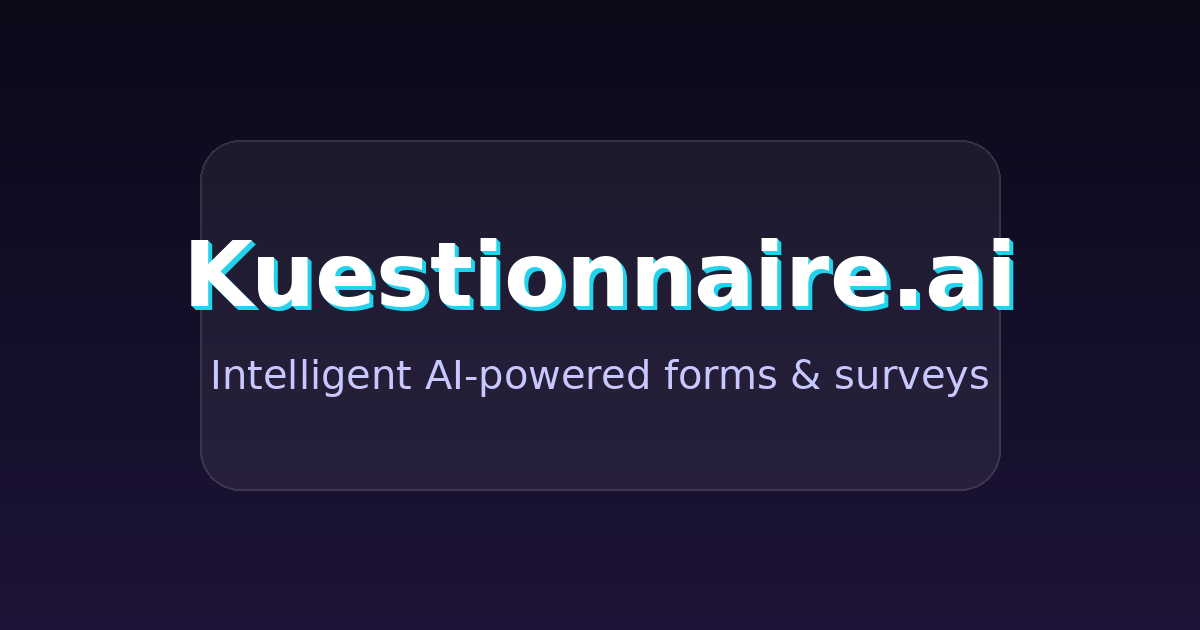
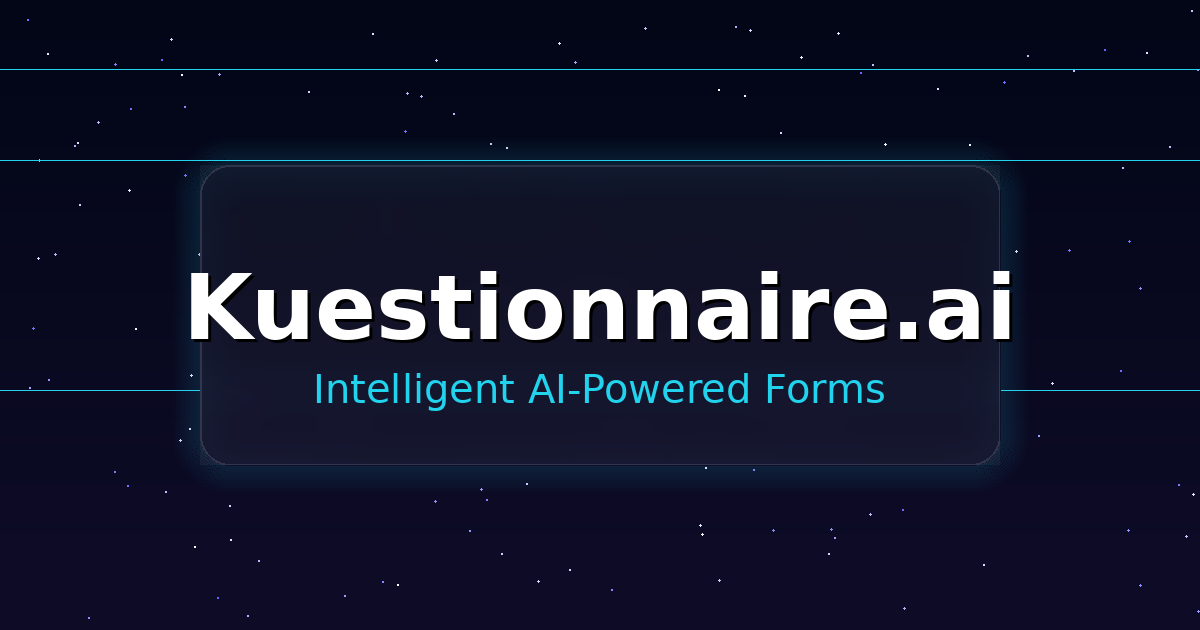
fix: resolve blank page issue and update OG image with better branding
- Fixed a critical issue where the app would load as a blank page if Supabase environment variables were missing. The app now handles missing variables gracefully and runs in local-only mode.
- Generated a new, high-quality Open Graph (OG) image with a futuristic "space/tech" theme.
- Ensured absolute URLs are used for social media meta tags (og:image and twitter:image).

diff --git a/src/lib/supabase.ts b/src/lib/supabase.ts
@@ -3,10 +3,16 @@ import { createClient } from '@supabase/supabase-js';
 const supabaseUrl = import.meta.env.VITE_SUPABASE_URL;
 const supabaseAnonKey = import.meta.env.VITE_SUPABASE_ANON_KEY;
 
+const placeholderUrl = 'https://placeholder-project.supabase.co';
+const placeholderKey = 'eyJhbGciOiJIUzI1NiIsInR5cCI6IkpXVCJ9.eyJpc3MiOiJzdXBhYmFzZSIsInJlZiI6InBsYWNlaG9sZGVyIiwicm9sZSI6ImFub24iLCJpYXQiOjE2MTY0OTY0MDAsImV4cCI6MTkzMjA3MjQwMH0.placeholder';
+
 if (!supabaseUrl || !supabaseAnonKey) {
-  throw new Error(
-    'Missing Supabase environment variables. Please check your .env file.'
+  console.warn(
+    'Missing Supabase environment variables. App will run in limited mode with local storage only.'
   );
 }
 
-export const supabase = createClient(supabaseUrl, supabaseAnonKey);
+export const supabase = createClient(
+  supabaseUrl || placeholderUrl,
+  supabaseAnonKey || placeholderKey
+);
